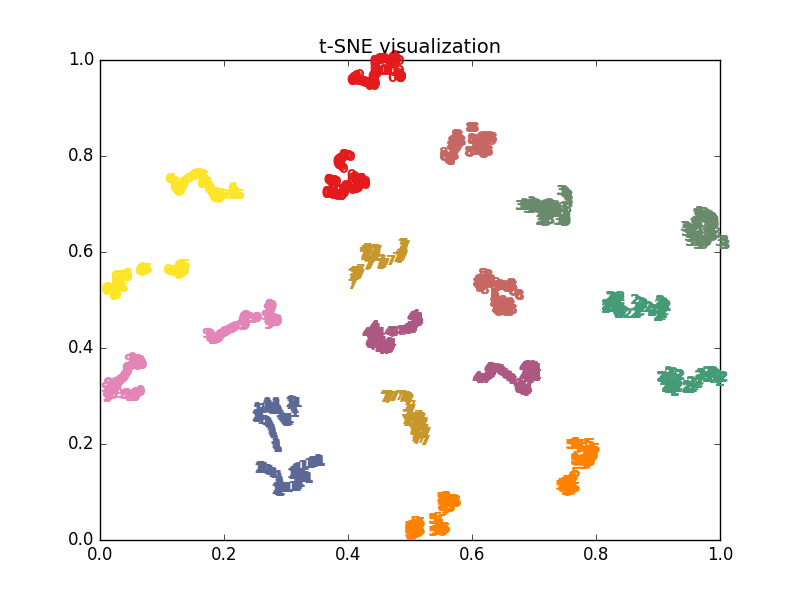
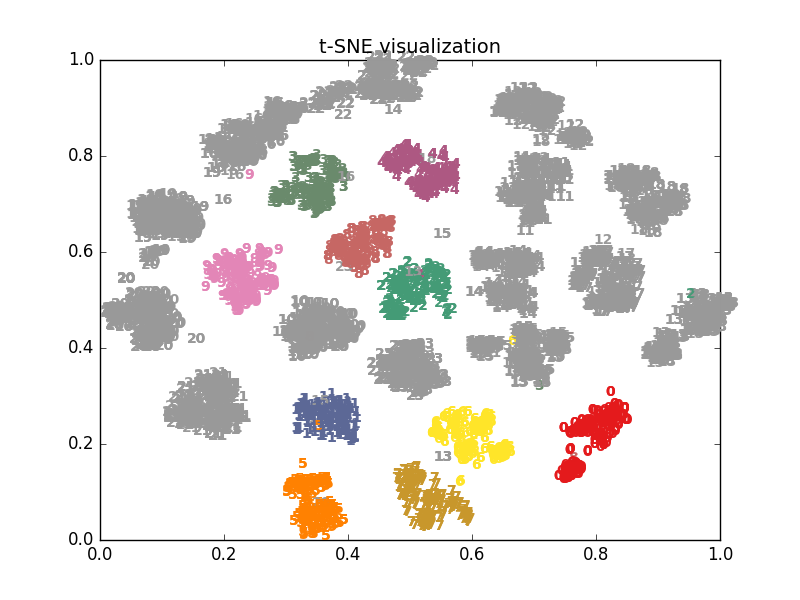
0301:asl_Dataset

Changed region(s): [[0.125, 0.06, 0.9375, 0.9], [0.6875, 0.63, 0.8125, 0.84], [0.5312, 0.36, 0.5625, 0.39]]

diff --git a/datasets/asl_dataset.py b/datasets/asl_dataset.py
@@ -1,0 +1,103 @@
+import numpy as np
+import torch 
+from torch.utils import data
+from torchvision import transforms
+from PIL import Image
+import sys 
+import os
+import copy
+from sklearn.model_selection import train_test_split
+sys.path.append("..") 
+import config
+
+lookup = {'a':0, 'b':1, 'c':2, 'd':3, 'e':4, 'f':5, 'g':6, 'h':7, 'i':8, 'k':9, 'l':10, 'm':11, 'n':12, 'o':13,
+'p':14, 'q':15, 'r':16, 's':17, 't':18, 'u':19, 'v':20, 'w':21, 'x':22, 'y':23}
+
+def make_train_test_split(data_path, test_size=0.1):
+    '''
+    按test_size的比例随机划分训练集和测试集
+    '''
+    image_list = []
+    label_list = []
+    subject_list = os.listdir(data_path)
+    for subject in subject_list:
+        subject_path = os.path.join(data_path, subject)
+        gesture_list = os.listdir(subject_path)
+        for gesture in gesture_list:
+            file_path = os.path.join(subject_path, gesture)
+            file_list = os.listdir(file_path)
+            for file_name in file_list:
+                #只处理其中的RGB图片
+                if 'color' in file_name:
+                    file_dir = os.path.join(file_path, file_name)
+                    image_list.append(file_dir)
+                    label_list.append(lookup[gesture])
+        x_train,x_test,y_train,y_test = train_test_split(image_list,label_list,test_size = 0.1)
+    return x_train,x_test,y_train,y_test
+
+
+
+class TrainDataset(data.Dataset):
+    def __init__(self, image_list, label_list):
+        self.img_w = config.img_w
+        self.img_h = config.img_h
+        self.num_classes = config.num_classes
+        self.data_list = []
+        self.mean = np.array([0.485, 0.456, 0.406])
+        self.std = np.array([0.229, 0.224, 0.225])
+        
+        self.image_list = copy.deepcopy(image_list)
+        self.label_list = copy.deepcopy(label_list)
+
+        
+    def __len__(self):
+        return len(self.image_list)
+    
+    def __getitem__(self, index):
+        file_dir = self.image_list[index]
+        label  = self.label_list[index]
+        image = self.transform(Image.open(file_dir).convert('RGB'))
+        return image, label
+
+    def transform(self, img):
+        return transforms.Compose([
+            transforms.Resize((config.img_w, config.img_h)),
+            transforms.ToTensor(),
+            transforms.Normalize(
+                mean=[0.485, 0.456, 0.406],
+                std=[0.229, 0.224, 0.225]
+            )
+        ])(img)
+
+class TestDataset(data.Dataset):
+    def __init__(self, image_list, label_list):
+        self.img_w = config.img_w
+        self.img_h = config.img_h
+        self.num_classes = config.num_classes
+        self.data_list = []
+        self.mean = np.array([0.485, 0.456, 0.406])
+        self.std = np.array([0.229, 0.224, 0.225])
+        
+        self.image_list = copy.deepcopy(image_list)
+        self.label_list = copy.deepcopy(label_list)
+
+    def __len__(self):
+        return len(self.image_list)
+    
+    def __getitem__(self, index):
+        file_dir = self.image_list[index]
+        label  = self.label_list[index]
+        image = self.transform(Image.open(file_dir).convert('RGB'))
+        return image, label
+
+
+    def transform(self, img):
+        return transforms.Compose([
+            transforms.Resize((config.img_w, config.img_h)),
+            transforms.ToTensor(),
+            transforms.Normalize(
+                mean=[0.485, 0.456, 0.406],
+                std=[0.229, 0.224, 0.225]
+            )
+        ])(img)
+

diff --git a/utils.py b/utils.py
@@ -39,7 +39,7 @@ def plot_acc_loss(path_prefix, loss, acc):
     plt.draw()
     plt.show()
 
-def plot_embedding_with_label(data, label, title):
+def plot_embedding_with_label(data, label, epoch, title):
     """
     :param data:数据集
     :param label:样本标签
@@ -55,27 +55,27 @@ def plot_embedding_with_label(data, label, title):
     # 遍历所有样本
     for i in range(data.shape[0]):
         # 在图中为每个数据点画出标签
-        plt.text(data[i, 0], data[i, 1], str(label[i]), color=plt.cm.Set1(label[i] / 10),
+        plt.text(data[i, 0], data[i, 1], str(label[i]), color=plt.cm.Set1(label[i] / 24),
                  fontdict={'weight': 'bold', 'size': 10})
     # 指定坐标的刻度
     plt.xticks()        
     plt.yticks()
     plt.title(title, fontsize=14)
-    plt.savefig('./plots/figure.png')
+    plt.savefig('./plots/figure_'+ epoch +'.png')
     plt.show()
     
 
-def plot_embedding_with_image(data, images, title):
+def plot_embedding_with_image(data, images, epoch, title):
 
     fig, ax = plt.subplots()
     fig.set_size_inches(21.6, 14.4)
     plt.axis('off')
     imscatter(data[:, 0], data[:, 1], images, zoom=0.1, ax=ax)
-    plt.savefig('./plots/figure_img.png')
+    plt.savefig('./plots/figure_img_'+ epoch +'.png')
     plt.show()
 
 
-def plot_embedding_with_circle(data, label, title):
+def plot_embedding_with_circle(data, label, epoch, title):
     # 对数据进行归一化处理
     x_min, x_max = np.min(data, 0), np.max(data, 0)
     data = (data - x_min) / (x_max - x_min)  
@@ -83,8 +83,8 @@ def plot_embedding_with_circle(data, label, title):
     fig.set_size_inches(21.6, 14.4)
     plt.axis('off')
     for i in range(data.shape[0]):
-        plt.scatter(data[i,0], data[i,1], c=plt.cm.Set1(label[i] / 10), marker='o', edgecolors='none')
-    plt.savefig('./plots/figure_circle.png')
+        plt.scatter(data[i,0], data[i,1], c=plt.cm.Set1(label[i] / 24), marker='o', edgecolors='none')
+    plt.savefig('./plots/figure_circle_' + epoch + '.png')
     plt.show()
 
 def imscatter(x, y, images, ax=None, zoom=1):

diff --git a/test.py b/test.py
@@ -4,6 +4,7 @@ from torch.nn import functional as F
 from torch.utils.data import DataLoader
 import torchvision
 from sklearn.metrics import accuracy_score, adjusted_mutual_info_score, adjusted_rand_score
+from sklearn.cluster import MiniBatchKMeans, KMeans
 
 from tqdm import tqdm
 import json
@@ -65,10 +66,13 @@ def test(model:nn.Sequential, test_loader:torch.utils.data.DataLoader, device:in
     # 利用tSNE算法可视化聚类结果
     if args.visualization:
         tsne = TSNE(n_components=2, init='pca')
+        
+        # kmeans = KMeans(init='k-means++', n_clusters=3, n_init=10)
+        epoch = args.restore_from.split('/')[-1].split('.')[0]
         embedding = tsne.fit_transform(features)
-        plot_embedding_with_label(embedding, y_gd, 't-SNE visualization')
-        plot_embedding_with_image(embedding, X_in, 't-SNE visualization')
-        plot_embedding_with_circle(embedding, y_gd, 't-SNE visualization')
+        plot_embedding_with_label(embedding, y_gd, epoch, 't-SNE visualization')
+        plot_embedding_with_image(embedding, X_in, epoch, 't-SNE visualization')
+        plot_embedding_with_circle(embedding, y_gd, epoch, 't-SNE visualization')
     return test_loss, test_acc
 
 def parse_args():
@@ -85,8 +89,9 @@ if __name__ == "__main__":
     restore_from = args.restore_from
     base_model = config.model_name
     num_classes = config.num_classes
-    # data_split = '/'.join(restore_from.split('/')[:-1]) + '/data_info.json'
-    data_split = './checkpoints/0218_lr1e-6_resnet18_norandom/data_info.json'
+    data_split = '/'.join(restore_from.split('/')[:-1]) + '/data_info.json'
+    # data_split = './checkpoints/0217_lr1e-5_resnet18/data_info.json'
+    
     # 划分训练集和测试集
     with open(data_split, 'r') as f:
         data_info = json.load(f)

diff --git a/train.py b/train.py
@@ -8,8 +8,8 @@ from tqdm import tqdm
 import json
 import os
 import argparse
-from datasets.hand_dataset import TrainDataset, TestDataset
-from datasets.hand_dataset import make_train_test_split_random, make_train_test_split
+from datasets.asl_dataset import TrainDataset, TestDataset
+from datasets.asl_dataset import make_train_test_split
 
 from models.resnet import resnet50, resnet18 
 from models.densenet import densenet121
@@ -85,7 +85,7 @@ def validation(model:nn.Sequential, test_loader:torch.utils.data.DataLoader, opt
 
 def parse_args():
     parser = argparse.ArgumentParser(usage='python3 train.py -i path/to/data -r path/to/checkpoint')
-    parser.add_argument('-i', '--data_path', help='path to your datasets', default='./data')
+    parser.add_argument('-i', '--data_path', help='path to your datasets', default='./dataset5')
     parser.add_argument('-d', '--data_file_path', help='path to your datasets split', default=None)
     parser.add_argument('-r', '--restore_from', help='path to the checkpoint', default=None)
     args = parser.parse_args()
@@ -96,7 +96,7 @@ if __name__ == "__main__":
     data_path = args.data_path
     restore_from = args.restore_from
     base_model = config.model_name
-    num_classes = config.num_classes
+    num_classes = config.num_classes    
     data_split = args.data_file_path
 
 

diff --git a/config.py b/config.py
@@ -1,12 +1,12 @@
-img_w = 224
-img_h = 224
+img_w = 64
+img_h = 64
 
-batch_size = 64
-learning_rate = 1e-6   # 网络学习率
-epoches = 10 # 网络训练迭代次数
+batch_size = 128
+learning_rate = 1e-7   # 网络学习率
+epoches = 40 # 网络训练迭代次数
 log_interval = 2 # 打印间隔，默认每2个batch_size打印一次
-save_interval = 1 # 模型保存间隔，默认每个epoch保存一次
-num_classes = 10 # 训练分类类别数量
+save_interval = 2 # 模型保存间隔，默认每个epoch保存一次
+num_classes = 24 # 训练分类类别数量
 model_name = 'resnet18' # 分类网络
-experiments_name = '0218_lr1e-6_resnet18_norandom'
+experiments_name = '0226_asl_lr1e-7_64'
 
